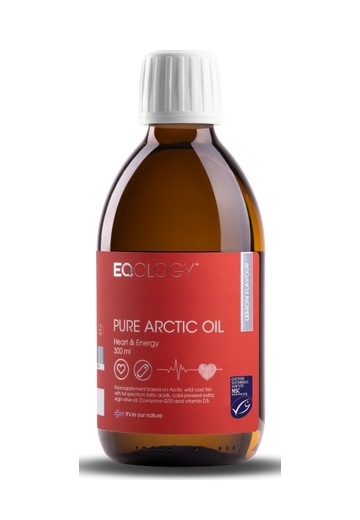
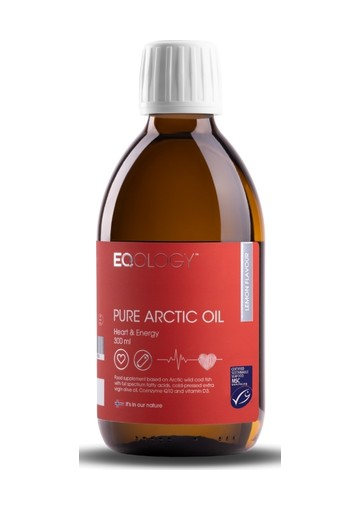
Tableau gamme : bouteilles strictement même taille + entières
Cadrage auto détecté une fois et appliqué aux 4 bouteilles identiques (taille égale),
Heart/Kids détectés à part, bases alignées, plus aucune coupe. Cache-bust v5.

Changed region(s): [[0.2139, 0.0615, 0.7944, 0.9231], [0.5806, 0.3385, 0.6417, 0.4308]]

diff --git a/index.html b/index.html
@@ -441,7 +441,7 @@
         <div class="overflow-x-auto">
           <table class="min-w-[920px] w-full border-collapse text-sm">
             <thead>
-              <tr class="bg-white"><th class="px-5 pt-6"></th><th class="px-3 pt-8 pb-4 text-center"><img src="assets/images/pao-kids.jpg?v=4" alt="Pure Arctic Oil For Kids" class="h-36 w-auto mx-auto object-contain" loading="lazy"></th><th class="px-3 pt-8 pb-4 text-center"><img src="assets/images/pao-lemon.jpg?v=4" alt="Pure Arctic Oil Lemon / Orange" class="h-36 w-auto mx-auto object-contain" loading="lazy"></th><th class="px-3 pt-8 pb-4 text-center"><img src="assets/images/pao-natural.jpg?v=4" alt="Pure Arctic Oil Natural" class="h-36 w-auto mx-auto object-contain" loading="lazy"></th><th class="px-3 pt-8 pb-4 text-center"><img src="assets/images/pao-heart.jpg?v=4" alt="Pure Arctic Oil Heart & Energy" class="h-36 w-auto mx-auto object-contain" loading="lazy"></th><th class="px-3 pt-8 pb-4 text-center"><img src="assets/images/pao-gold.jpg?v=4" alt="Pure Arctic Oil Gold" class="h-36 w-auto mx-auto object-contain" loading="lazy"></th><th class="px-3 pt-8 pb-4 text-center"><img src="assets/images/pao-vegan.jpg?v=4" alt="Pure Vegan Oil" class="h-36 w-auto mx-auto object-contain" loading="lazy"></th></tr>
+              <tr class="bg-white"><th class="px-5 pt-6"></th><th class="px-3 pt-8 pb-4 text-center"><img src="assets/images/pao-kids.jpg?v=5" alt="Pure Arctic Oil For Kids" class="h-36 w-auto mx-auto object-contain" loading="lazy"></th><th class="px-3 pt-8 pb-4 text-center"><img src="assets/images/pao-lemon.jpg?v=5" alt="Pure Arctic Oil Lemon / Orange" class="h-36 w-auto mx-auto object-contain" loading="lazy"></th><th class="px-3 pt-8 pb-4 text-center"><img src="assets/images/pao-natural.jpg?v=5" alt="Pure Arctic Oil Natural" class="h-36 w-auto mx-auto object-contain" loading="lazy"></th><th class="px-3 pt-8 pb-4 text-center"><img src="assets/images/pao-heart.jpg?v=5" alt="Pure Arctic Oil Heart & Energy" class="h-36 w-auto mx-auto object-contain" loading="lazy"></th><th class="px-3 pt-8 pb-4 text-center"><img src="assets/images/pao-gold.jpg?v=5" alt="Pure Arctic Oil Gold" class="h-36 w-auto mx-auto object-contain" loading="lazy"></th><th class="px-3 pt-8 pb-4 text-center"><img src="assets/images/pao-vegan.jpg?v=5" alt="Pure Vegan Oil" class="h-36 w-auto mx-auto object-contain" loading="lazy"></th></tr>
               <tr class="bg-navy-900 text-white"><th class="px-5 py-4 text-left text-xs font-semibold uppercase tracking-wider text-glacier-300">Gamme</th><th class="px-4 py-4 text-center align-middle"><span class="block font-serif text-sm font-bold leading-tight">Pure Arctic Oil For Kids</span></th><th class="px-4 py-4 text-center align-middle"><span class="block font-serif text-sm font-bold leading-tight">Pure Arctic Oil Lemon / Orange</span></th><th class="px-4 py-4 text-center align-middle"><span class="block font-serif text-sm font-bold leading-tight">Pure Arctic Oil Natural</span></th><th class="px-4 py-4 text-center align-middle"><span class="block font-serif text-sm font-bold leading-tight">Pure Arctic Oil Heart & Energy</span></th><th class="px-4 py-4 text-center align-middle"><span class="block font-serif text-sm font-bold leading-tight">Pure Arctic Oil Gold</span></th><th class="px-4 py-4 text-center align-middle"><span class="block font-serif text-sm font-bold leading-tight">Pure Vegan Oil</span></th></tr>
             </thead>
             <tbody>
